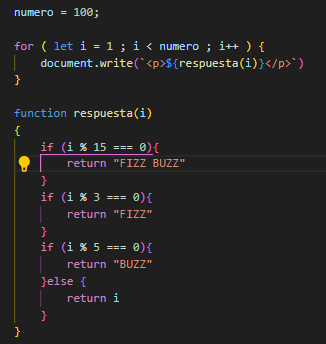
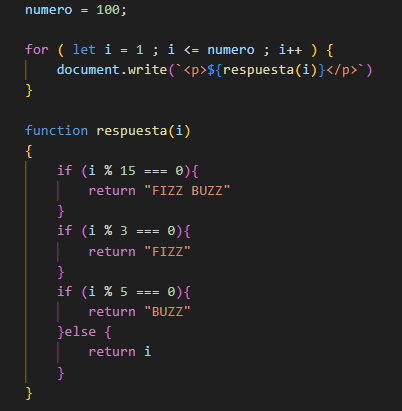
errorcito cambio <  por <=

diff --git a/codigo.js b/codigo.js
@@ -4,7 +4,7 @@
 
 numero = 100;
 
-for ( let i = 1 ; i < numero ; i++ ) {
+for ( let i = 1 ; i <= numero ; i++ ) {
     document.write(`<p>${respuesta(i)}</p>`)
 }
 
